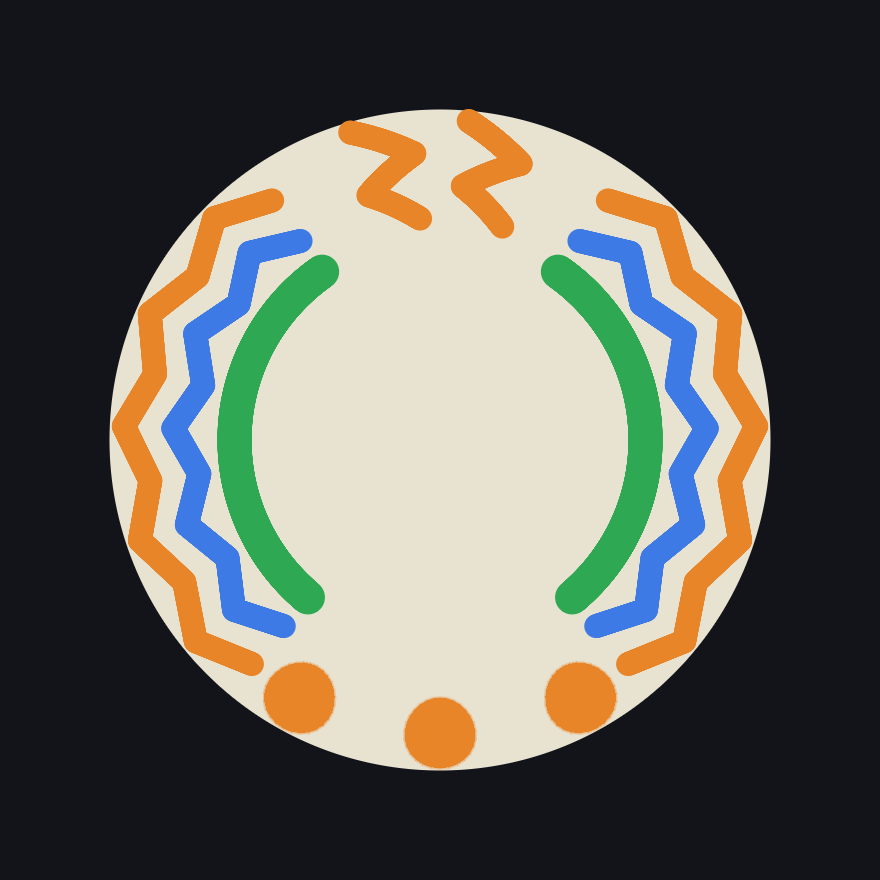
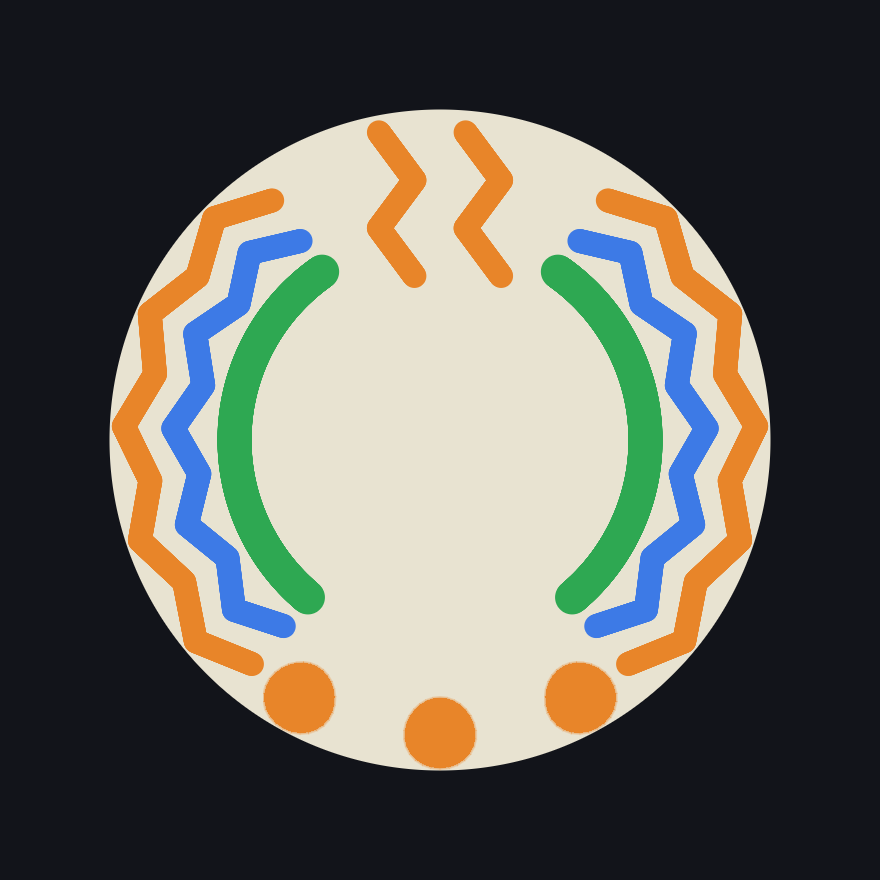
fix(game): keep emblem moon and upright zags inside the tile
Place both glyphs in a rigid tile-up frame so they stay in the notch,
the moon fills ~2-3 ring widths, and the two zags stay identical and parallel.

Changed region(s): [[0.3682, 0.1227, 0.6136, 0.3375]]

diff --git a/apa-kan/game/src/visual.rs b/apa-kan/game/src/visual.rs
@@ -982,7 +982,9 @@ impl TileRingDraw {
 		}
 	}
 
-	/// Polar frame of the emblem slot: tile center, mid-angle, radius.
+	/// Rigid frame of the emblem slot: tile center, mid-angle, radius.
+	/// Glyphs sit in the top notch, fully inside the disc; the pair rotates
+	/// with the tile as a unit (no per-stroke polar fan along the rim).
 	pub fn emblem_frame(
 		self,
 		tile_center: [f32; 2],
@@ -990,12 +992,22 @@ impl TileRingDraw {
 		up: [f32; 2],
 	) -> ([f32; 2], f32, f32) {
 		let mid = down_angle(up);
-		let mark_r = self.capture_mark_r(tile_radius, 2);
-		let rho_track = self.ring_radius(tile_radius, 0).max(tile_radius * 0.55);
-		let rho = (rho_track - mark_r * 0.08)
-			.min(tile_radius - mark_r * 1.05)
-			.max(tile_radius * 0.45);
+		let half = self.emblem_half_extent();
+		let pad = (0.65 * self.scale).max(0.5);
+		let rho = (tile_radius - half - pad).max(tile_radius * 0.42);
 		(tile_center, mid, rho)
+	}
+
+	/// Outer-circle radius of the two-circle moon (~2–3 ring-widths tall).
+	pub fn crescent_radius(self) -> f32 {
+		let stroke = self.zag_stroke.max(0.55);
+		(self.gap * 1.52).max(stroke * 2.8)
+	}
+
+	fn emblem_half_extent(self) -> f32 {
+		let stroke = self.zag_stroke.max(0.55);
+		let zag_h = stroke * 3.15;
+		(self.crescent_radius() * 0.92).max(zag_h + stroke * 0.55)
 	}
 
 	/// Thin two-circle crescent (waning/waxing sliver), opening right/down-right.
@@ -1006,8 +1018,7 @@ impl TileRingDraw {
 		up: [f32; 2],
 	) -> Vec<[f32; 2]> {
 		let (origin, theta, rho) = self.emblem_frame(tile_center, tile_radius, up);
-		let r = self.capture_mark_r(tile_radius, 2) * 1.35;
-		crescent_on_arc(origin, theta, rho, r)
+		crescent_on_arc(origin, theta, rho, self.crescent_radius())
 	}
 
 	/// Strip triangles for the two-circle crescent (a centroid fan would fill the bite).
@@ -1018,11 +1029,10 @@ impl TileRingDraw {
 		up: [f32; 2],
 	) -> Vec<[[f32; 2]; 3]> {
 		let (origin, theta, rho) = self.emblem_frame(tile_center, tile_radius, up);
-		let r = self.capture_mark_r(tile_radius, 2) * 1.35;
-		crescent_tris_on_arc(origin, theta, rho, r)
+		crescent_tris_on_arc(origin, theta, rho, self.crescent_radius())
 	}
 
-	/// Two parallel vertical zigzags (lightning / `>` over `<`) in the top notch.
+	/// Two identical parallel upright zigzags (lightning / `>` over `<`).
 	pub fn two_zag_z_polys(
 		self,
 		tile_center: [f32; 2],
@@ -1030,16 +1040,13 @@ impl TileRingDraw {
 		up: [f32; 2],
 	) -> [Vec<[f32; 2]>; 2] {
 		let (origin, theta, rho) = self.emblem_frame(tile_center, tile_radius, up);
-		// Amplitude and gap are in stroke units so the bends stay visible
-		// (a capture-mark-sized zigzag is thinner than the zag stroke).
 		let stroke = self.zag_stroke.max(0.55);
-		let h = stroke * 2.15;
-		let w = stroke * 1.25;
-		let sep = stroke * 2.4;
-		let n0 = -stroke * 0.95;
+		let h = stroke * 3.15;
+		let w = stroke * 0.78;
+		let sep = w + stroke * 1.12;
 		[
-			zag_zigzag_on_arc(origin, theta, rho, h, w, n0, -sep),
-			zag_zigzag_on_arc(origin, theta, rho, h, w, n0, sep),
+			zag_zigzag_upright(origin, theta, rho, h, w, -sep),
+			zag_zigzag_upright(origin, theta, rho, h, w, sep),
 		]
 	}
 }
@@ -1107,8 +1114,8 @@ fn crescent_arcs(origin: [f32; 2], theta: f32, rho: f32, r: f32) -> (Vec<[f32; 2
 	use std::f32::consts::PI;
 	let n = TILE_MARK_DOT_SAMPLES.max(20);
 	let outer_r = r;
-	let inner_r = r * 0.97;
-	let offset = r * 0.32;
+	let inner_r = r * 0.93;
+	let offset = r * 0.40;
 	// ~−38° from +s toward −n: horns point right and down-right, back is upper-left.
 	let open = -38.0 * PI / 180.0;
 	let (os, on) = (open.cos(), open.sin());
@@ -1122,7 +1129,7 @@ fn crescent_arcs(origin: [f32; 2], theta: f32, rho: f32, r: f32) -> (Vec<[f32; 2
 	let mut outer = sample_circle_arc(c0, outer_r, p, q, back, n);
 	let mut inner = sample_circle_arc(c1, inner_r, p, q, terminator, n);
 	center_local_pair(&mut outer, &mut inner);
-	(warp_local(origin, theta, rho, &outer), warp_local(origin, theta, rho, &inner))
+	(emblem_warp(origin, theta, rho, &outer), emblem_warp(origin, theta, rho, &inner))
 }
 
 fn crescent_tris_on_arc(origin: [f32; 2], theta: f32, rho: f32, r: f32) -> Vec<[[f32; 2]; 3]> {
@@ -1202,48 +1209,32 @@ fn center_local_pair(a: &mut [[f32; 2]], b: &mut [[f32; 2]]) {
 	}
 }
 
-fn warp_local(origin: [f32; 2], theta: f32, rho: f32, pts: &[[f32; 2]]) -> Vec<[f32; 2]> {
+/// Rigid `(s, n)` → world: `+n` along the emblem radial, `+s` 90° CCW.
+/// Same first-order frame as polar, without fanning each stroke along the rim.
+fn emblem_local_to_world(origin: [f32; 2], theta: f32, rho: f32, s: f32, n: f32) -> [f32; 2] {
+	let (ct, st) = (theta.cos(), theta.sin());
+	[origin[0] + (rho + n) * ct - s * st, origin[1] + (rho + n) * st + s * ct]
+}
+
+fn emblem_warp(origin: [f32; 2], theta: f32, rho: f32, pts: &[[f32; 2]]) -> Vec<[f32; 2]> {
 	pts.iter()
-		.map(|p| polar_local_to_world(origin, theta, rho, p[0], p[1]))
+		.map(|p| emblem_local_to_world(origin, theta, rho, p[0], p[1]))
 		.collect()
 }
 
-fn zag_zigzag_on_arc(
+fn zag_zigzag_upright(
 	origin: [f32; 2],
 	theta: f32,
 	rho: f32,
 	h: f32,
 	w: f32,
-	n0: f32,
 	s_off: f32,
 ) -> Vec<[f32; 2]> {
 	// Vertical lightning: top-left, down-right, down-left, down-right (`>` over `<`).
-	let verts = [
-		[-w + s_off, n0 + h],
-		[w + s_off, n0 + h / 3.0],
-		[-w + s_off, n0 - h / 3.0],
-		[w + s_off, n0 - h],
-	];
-	let m = TILE_MARK_TRI_EDGE_SAMPLES.max(3);
-	let mut out = Vec::new();
-	for i in 0..verts.len() - 1 {
-		let a = verts[i];
-		let b = verts[i + 1];
-		for k in 0..m {
-			let t = k as f32 / m as f32;
-			out.push(polar_local_to_world(
-				origin,
-				theta,
-				rho,
-				a[0] + (b[0] - a[0]) * t,
-				a[1] + (b[1] - a[1]) * t,
-			));
-		}
-	}
-	if let Some(&last) = verts.last() {
-		out.push(polar_local_to_world(origin, theta, rho, last[0], last[1]));
-	}
-	out
+	[[-w + s_off, h], [w + s_off, h / 3.0], [-w + s_off, -h / 3.0], [w + s_off, -h]]
+		.into_iter()
+		.map(|p| emblem_local_to_world(origin, theta, rho, p[0], p[1]))
+		.collect()
 }
 
 fn capture_triangle_on_arc(origin: [f32; 2], theta: f32, rho: f32, r: f32) -> Vec<[f32; 2]> {
@@ -4406,10 +4397,17 @@ mod tests {
 		let mut min_x = f32::INFINITY;
 		let mut left_y = 0.0f32;
 		let mut mean_y = 0.0f32;
+		let mut min_y = f32::INFINITY;
+		let mut max_y = f32::NEG_INFINITY;
+		let mut max_hyp = 0.0f32;
 		for p in &poly {
-			dist_sum += p[0].hypot(p[1]);
+			let hyp = p[0].hypot(p[1]);
+			dist_sum += hyp;
+			max_hyp = max_hyp.max(hyp);
 			assert!(p[1] > 0.0, "crescent sits at the top of the tile in Bevy coords");
 			mean_y += p[1];
+			min_y = min_y.min(p[1]);
+			max_y = max_y.max(p[1]);
 			if p[0] < min_x {
 				min_x = p[0];
 				left_y = p[1];
@@ -4417,6 +4415,13 @@ mod tests {
 		}
 		mean_y /= poly.len() as f32;
 		assert!(dist_sum / poly.len() as f32 > r * 0.4);
+		assert!(max_hyp < r - 0.2, "crescent stays inside the tile, max={max_hyp} r={r}");
+		assert!(
+			max_y - min_y > draw.gap * 1.7,
+			"crescent fills the notch, height={} gap={}",
+			max_y - min_y,
+			draw.gap
+		);
 		assert!(poly.iter().any(|p| p[0] > 0.0), "horns open toward +s (right)");
 		assert!(min_x < 0.0, "back of the sliver sits on the left");
 		assert!(
@@ -4425,14 +4430,28 @@ mod tests {
 		);
 		let zigs = draw.two_zag_z_polys([0.0, 0.0], r, up);
 		assert_eq!(zigs.len(), 2);
+		assert_eq!(zigs[0].len(), zigs[1].len());
+		assert!(zigs[0].len() >= 4, "each zag is an angular polyline");
+		let d0 = [zigs[1][0][0] - zigs[0][0][0], zigs[1][0][1] - zigs[0][0][1]];
+		for i in 0..zigs[0].len() {
+			let d = [zigs[1][i][0] - zigs[0][i][0], zigs[1][i][1] - zigs[0][i][1]];
+			assert!(
+				(d[0] - d0[0]).abs() < 1e-4 && (d[1] - d0[1]).abs() < 1e-4,
+				"zags are identical up to a shared translation, i={i} d={d:?} d0={d0:?}"
+			);
+		}
 		for zig in &zigs {
-			assert!(zig.len() >= 4, "each zag is an angular polyline");
 			let mut min_zx = f32::INFINITY;
 			let mut max_zx = f32::NEG_INFINITY;
 			let mut min_zy = f32::INFINITY;
 			let mut max_zy = f32::NEG_INFINITY;
 			for p in zig {
+				let hyp = p[0].hypot(p[1]);
 				assert!(p[1] > 0.0, "zag glyphs sit at the top, p={p:?}");
+				assert!(
+					hyp + draw.zag_stroke * 0.5 < r - 0.15,
+					"zag stroke stays inside the tile, hyp={hyp} r={r}"
+				);
 				min_zx = min_zx.min(p[0]);
 				max_zx = max_zx.max(p[0]);
 				min_zy = min_zy.min(p[1]);

diff --git a/rfc/rfc-001-001-006-emblems/README.md b/rfc/rfc-001-001-006-emblems/README.md
@@ -67,8 +67,8 @@ Emblems sit at the **top** of the tile, warped/rotated with the face like captur
 
 - Non-empty emblem: rings (normal, zag, braid, bead) open a ~70° **C-notch** at the top, same idea as the capture-mark notch.
 - Empty slot: full rings at the top.
-- Crescent Moon: a thin two-circle sliver (waxing/waning moon), back on the upper-left, horns pointing right and down-right. Solid fill, no star.
-- Two Zag Zs: two parallel vertical zigzags (lightning: `>` stacked over `<`), sharp corners, uniform stroke.
+- Crescent Moon: a thin two-circle sliver (waxing/waning moon) filling the top notch, back on the upper-left, horns pointing right and down-right. Solid fill, no star. Fully inside the tile disc.
+- Two Zag Zs: two identical parallel upright vertical zigzags (lightning: `>` stacked over `<`), sharp corners, uniform stroke. The pair rotates with the tile as a unit. Fully inside the tile disc.
 
 Desktop PNG close-ups: [`emblem_crescent_dot.png`](../../apa-kan/game/screenshots/emblem_crescent_dot.png), [`emblem_crescent_triangle.png`](../../apa-kan/game/screenshots/emblem_crescent_triangle.png), [`emblem_zs_dot.png`](../../apa-kan/game/screenshots/emblem_zs_dot.png), [`emblem_zs_triangle.png`](../../apa-kan/game/screenshots/emblem_zs_triangle.png).
 
